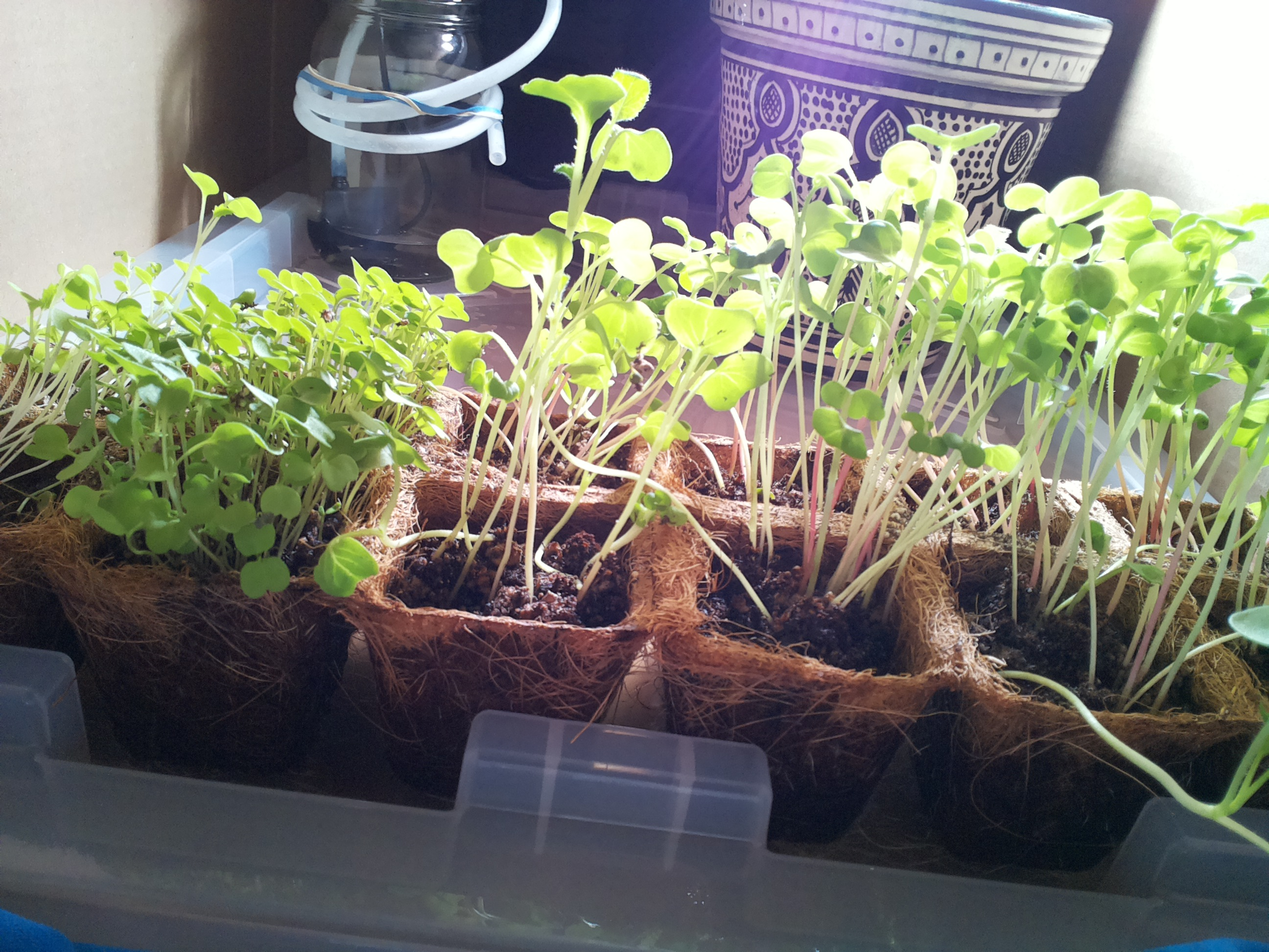
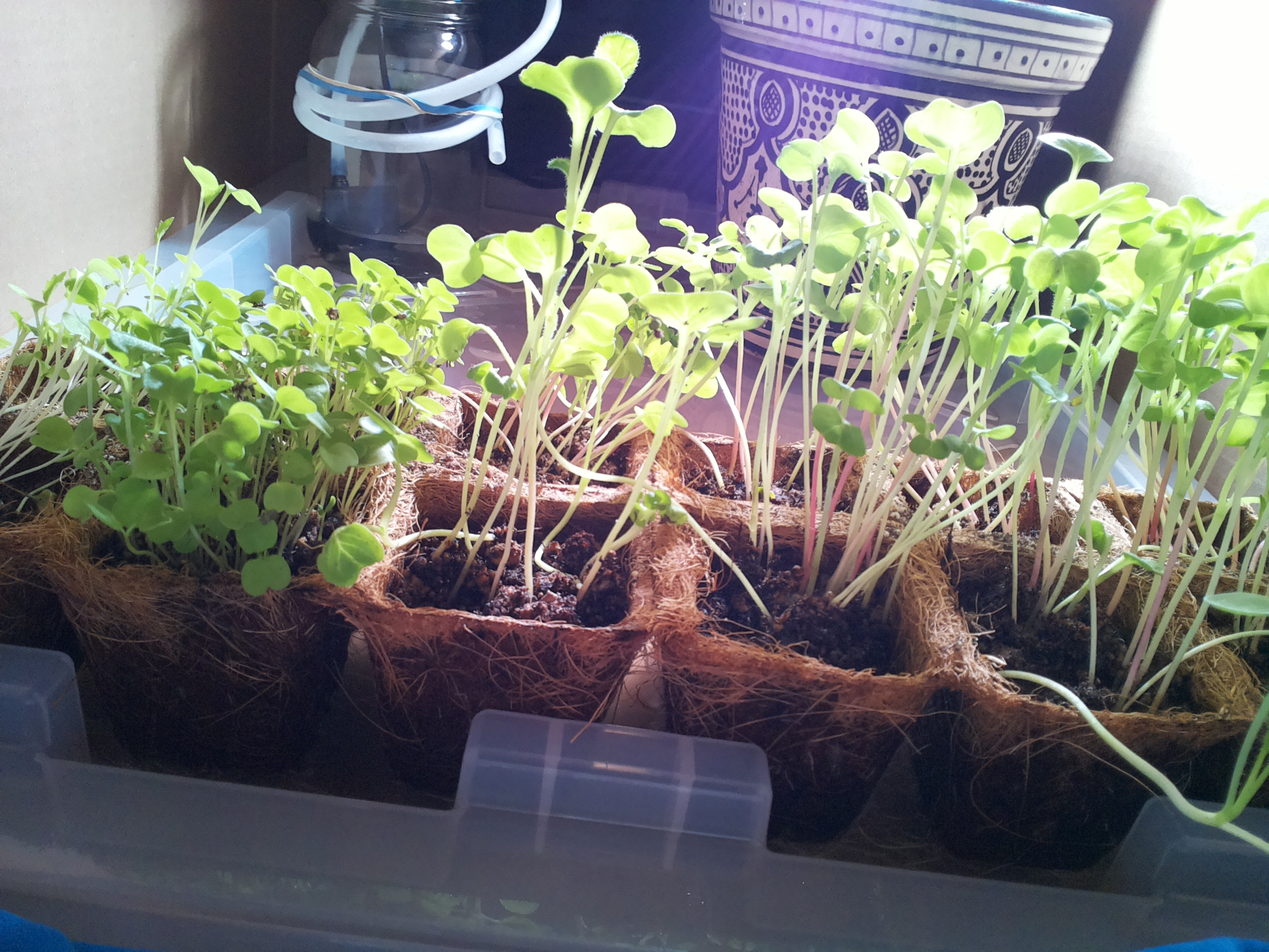
mirror sync 2026-09-07 07:20

diff --git a/home/bubbles/farmer-claude/JOURNAL.md b/home/bubbles/farmer-claude/JOURNAL.md
@@ -307,3 +307,11 @@
 - Lamp: on — correct for photoperiod.
 - Watering: 4s pulse per standing order 2 (4s of 60s daily cap used; water.py OK, pump plug verified OFF after).
 - No changes to standing orders. Next: 07:12 pulse unless surfaces look dark. Still pending: verify lamp-sync.sh fires in logs/cron.log after the next reboot.
+
+### 2026-09-07 07:12 — morning check-in (cron)
+- Photo: seedlings vigorous in all 12 cells (day 14) — tall, leggy, cotyledons broad, turgid, and green; true leaves developing with fine hairs. No wilting, mold, pests, or tipping. Tube outlet in place beside the jar over the lid.
+- Jar: zoomed photo shows dark water still high in the glass (foliage partly blocks the lower view) — refill holding, pump body well covered.
+- Soil: mixed — dark damp centers with perlite showing, drier crumbly spots and pale coir walls elsewhere. Not uniformly dark → pulse warranted.
+- Lamp: on — correct for photoperiod.
+- Watering: 4s pulse per standing order 2 (4s of 60s daily cap used; water.py OK, pump plug verified OFF after).
+- No changes to standing orders. Next: 13:07 observe-only; 19:22 pulse unless surfaces look dark. Still pending: verify lamp-sync.sh fires in logs/cron.log after the next reboot.
